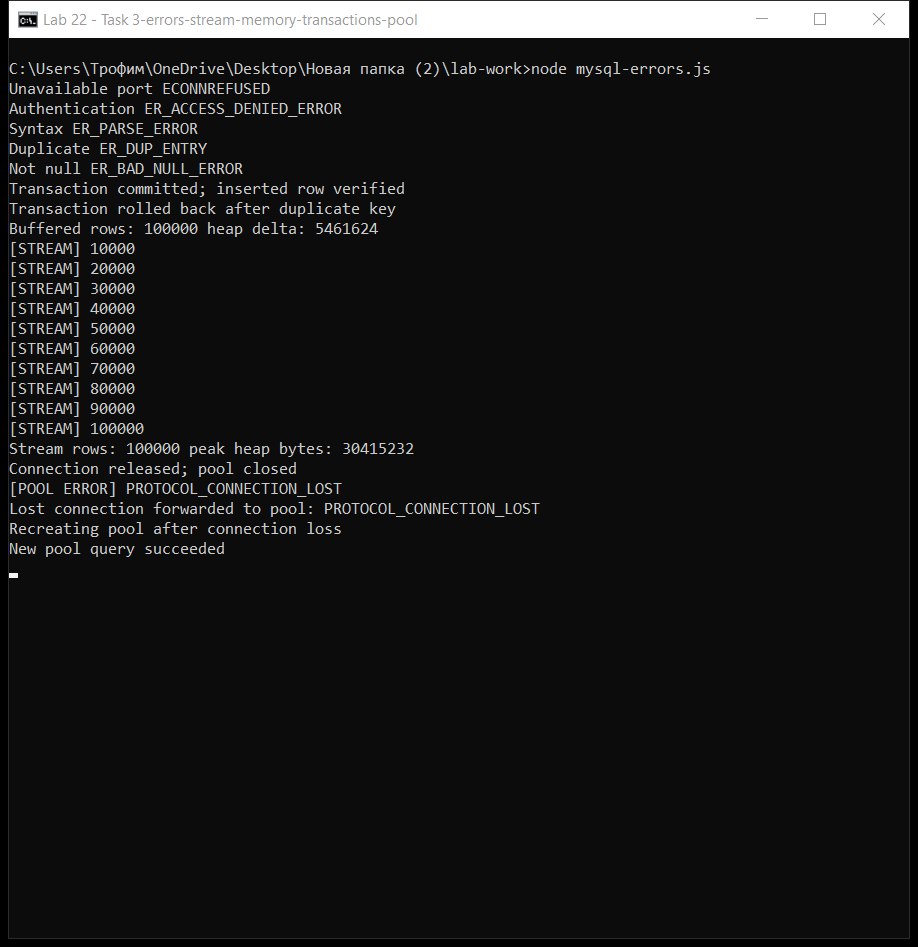
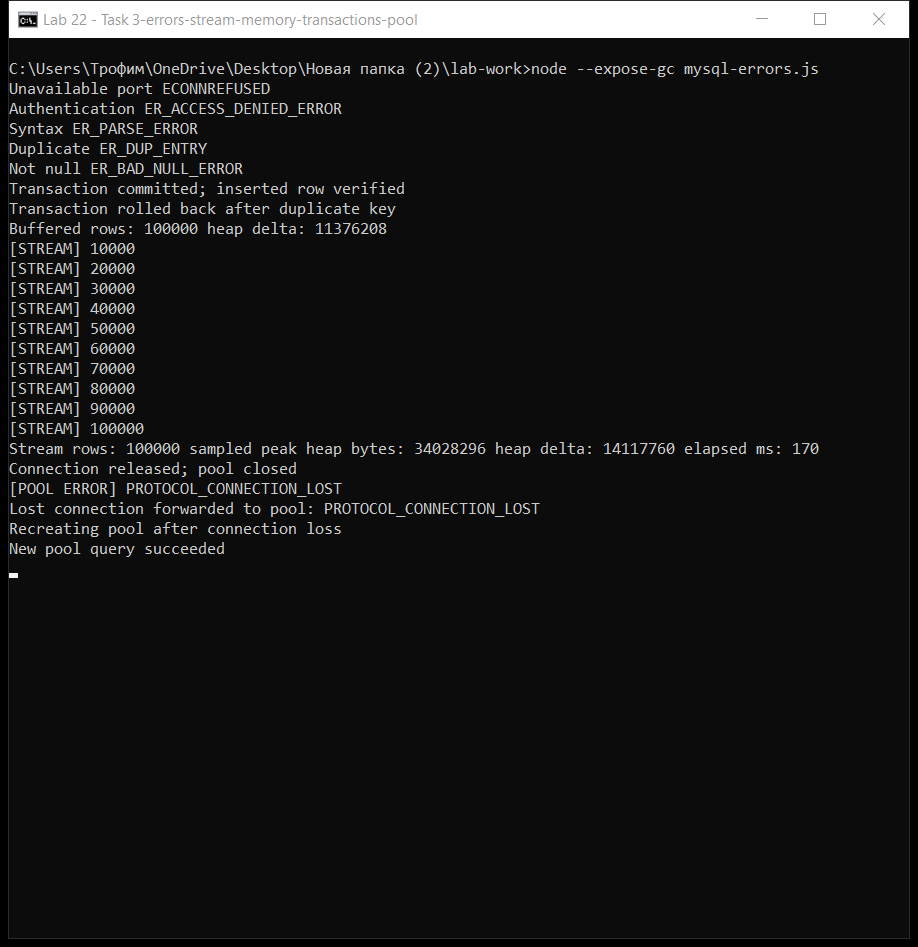
Verify lab 22 tasks 1-3 and add native execution screenshots

diff --git a/mysql-errors.js b/mysql-errors.js
@@ -1,23 +1,24 @@
 const { mysql, config, createPool } = require("./db");
 const assert = require("node:assert/strict");
-async function expectError(label, action) {
+async function expectError(label, code, action) {
   try {
     await action();
     throw new Error("Expected error: " + label);
   } catch (error) {
     if (error.message === "Expected error: " + label) throw error;
+    assert.equal(error.code, code, label);
     console.log(label, error.code);
   }
 }
 async function main() {
-  await expectError("Unavailable port", async () => {
+  await expectError("Unavailable port", "ECONNREFUSED", async () => {
     const c = await require("mysql2/promise").createConnection({
       ...config,
       port: 1,
     });
     await c.end();
   });
-  await expectError("Authentication", async () => {
+  await expectError("Authentication", "ER_ACCESS_DENIED_ERROR", async () => {
     const c = await require("mysql2/promise").createConnection({
       ...config,
       password: "intentionally-wrong",
@@ -27,7 +28,7 @@ async function main() {
   let pool = createPool();
   const db = pool.promise();
   try {
-    await expectError("Syntax", () => db.query("SELECT * FRM students"));
+    await expectError("Syntax", "ER_PARSE_ERROR", () => db.query("SELECT * FRM students"));
     const connection = await db.getConnection();
     try {
       await connection.query(
@@ -37,10 +38,10 @@ async function main() {
         1,
         "Trofim",
       ]);
-      await expectError("Duplicate", () =>
+      await expectError("Duplicate", "ER_DUP_ENTRY", () =>
         connection.execute("INSERT INTO error_demo VALUES (?, ?)", [1, "Anna"]),
       );
-      await expectError("Not null", () =>
+      await expectError("Not null", "ER_BAD_NULL_ERROR", () =>
         connection.execute("INSERT INTO error_demo VALUES (?, ?)", [2, null]),
       );
       await connection.beginTransaction();
@@ -62,7 +63,8 @@ async function main() {
           "Duplicate",
         ]);
         await connection.commit();
-      } catch {
+      } catch (error) {
+        assert.equal(error.code, "ER_DUP_ENTRY");
         await connection.rollback();
         console.log("Transaction rolled back after duplicate key");
       }
@@ -82,15 +84,20 @@ async function main() {
           ]),
         ]);
       }
+      if (global.gc) global.gc();
       const baseline = process.memoryUsage().heapUsed;
-      const [rows] = await connection.query("SELECT * FROM big_data");
+      let [rows] = await connection.query("SELECT * FROM big_data");
       console.log(
         "Buffered rows:",
         rows.length,
         "heap delta:",
         process.memoryUsage().heapUsed - baseline,
       );
-      rows.length = 0;
+      assert.equal(rows.length, 100000);
+      rows = null;
+      if (global.gc) global.gc();
+      const streamBaseline = process.memoryUsage().heapUsed;
+      const started = performance.now();
       let count = 0;
       let peak = process.memoryUsage().heapUsed;
       await new Promise((resolve, reject) => {
@@ -106,7 +113,7 @@ async function main() {
         stream.on("end", resolve);
       });
       assert.equal(count, 100000);
-      console.log("Stream rows:", count, "peak heap bytes:", peak);
+      console.log("Stream rows:", count, "sampled peak heap bytes:", peak, "heap delta:", peak - streamBaseline, "elapsed ms:", Math.round(performance.now() - started));
     } finally {
       connection.release();
     }
@@ -123,14 +130,15 @@ async function main() {
       const timeout = setTimeout(() => reject(new Error("Expected connection loss")), 3000);
       pool.once("error", (error) => { clearTimeout(timeout); resolve(error); });
     });
-    connection.release();
-    const killer = await recovered.getConnection();
-    // Keep the first connection busy so a different one sends KILL.
     const other = await recovered.getConnection();
-    await other.query("KILL CONNECTION " + id);
-    other.release();
-    killer.release();
+    try {
+      await other.query("KILL CONNECTION " + Number(id));
+    } finally {
+      other.release();
+      connection.release();
+    }
     const error = await failed;
+    assert.equal(error.code, "PROTOCOL_CONNECTION_LOST");
     console.log("Lost connection forwarded to pool:", error.code);
   } finally {
     await recovered.end();

diff --git a/mysql-crud.js b/mysql-crud.js
@@ -17,6 +17,9 @@ async function main() {
       "INSERT INTO students (name, group_name, course, grade) VALUES (?, ?, ?, ?), (?, ?, ?, ?)",
       ["Anna", "477", 1, 3.8, "Ivan", "477", 3, 4.2],
     );
+    assert.equal(inserted.affectedRows, 1);
+    assert.ok(inserted.insertId > 0);
+    assert.equal(bulk.affectedRows, 2);
     console.log("Bulk INSERT: affectedRows=", bulk.affectedRows);
     console.log("All:", JSON.stringify((await connection.query("SELECT * FROM students"))[0]));
     console.log("Filtered and sorted:", JSON.stringify((await connection.execute("SELECT * FROM students WHERE group_name = ? ORDER BY grade DESC LIMIT ? OFFSET ?", ["477", 10, 0]))[0]));

diff --git a/run-tests.js b/run-tests.js
@@ -2,7 +2,7 @@ const { spawnSync } = require("node:child_process");
 const fs = require("node:fs");
 const lines = [];
 for (const file of ["mysql-connect.js", "mysql-crud.js", "mysql-errors.js"]) {
-  const result = spawnSync(process.execPath, [file], { encoding: "utf8" });
+  const result = spawnSync(process.execPath, ["--expose-gc", file], { timeout: 60000, encoding: "utf8" });
   lines.push(
     file,
     (result.stdout + result.stderr).trimEnd(),
